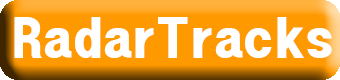
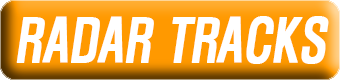
C3 test231110 (#30)
* icons...
* lane_width....

diff --git a/selfdrive/controls/lib/lateral_planner.py b/selfdrive/controls/lib/lateral_planner.py
@@ -5,6 +5,8 @@ import cereal.messaging as messaging
 from cereal import log
 
 from openpilot.common.params import Params
+from openpilot.selfdrive.controls.lib.lane_planner import LanePlanner
+
 
 TRAJECTORY_SIZE = 33
 CAMERA_OFFSET = 0.04
@@ -12,6 +14,7 @@ CAMERA_OFFSET = 0.04
 class LateralPlanner:
   def __init__(self, CP, debug=False):
     self.DH = DesireHelper()
+    self.LP = LanePlanner()
     self.readParams = 0
     self.lanelines_active = False
     self.lanelines_active_tmp = False
@@ -24,13 +27,10 @@ class LateralPlanner:
 
     self.path_xyz = np.zeros((TRAJECTORY_SIZE, 3))
     self.velocity_xyz = np.zeros((TRAJECTORY_SIZE, 3))
+    self.t_idxs = np.arange(TRAJECTORY_SIZE)
     self.v_plan = np.zeros((TRAJECTORY_SIZE,))
     self.x_sol = np.zeros((TRAJECTORY_SIZE, 4), dtype=np.float32)
     self.v_ego = MIN_SPEED
-    self.l_lane_change_prob = 0.0
-    self.r_lane_change_prob = 0.0
-    self.l_turn_prob = 0.0
-    self.r_turn_prob = 0.0
 
     self.debug_mode = debug
     self.steeringRateCost = 700.
@@ -48,24 +48,21 @@ class LateralPlanner:
     md = sm['modelV2']
     if len(md.position.x) == TRAJECTORY_SIZE and len(md.velocity.x) == TRAJECTORY_SIZE and len(md.lateralPlannerSolution.x) == TRAJECTORY_SIZE:
       self.path_xyz = np.column_stack([md.position.x, md.position.y, md.position.z])
+      self.t_idxs = np.array(md.position.t)
       self.velocity_xyz = np.column_stack([md.velocity.x, md.velocity.y, md.velocity.z])
       car_speed = np.linalg.norm(self.velocity_xyz, axis=1) - get_speed_error(md, v_ego_car)
       self.v_plan = np.clip(car_speed, MIN_SPEED, np.inf)
       self.v_ego = self.v_plan[0]
       self.x_sol = np.column_stack([md.lateralPlannerSolution.x, md.lateralPlannerSolution.y, md.lateralPlannerSolution.yaw, md.lateralPlannerSolution.yawRate])
 
+    # Parse model predictions
+    self.LP.parse_model(md)
+    lane_change_prob = self.LP.l_lane_change_prob + self.LP.r_lane_change_prob
+    turn_prob = self.LP.l_turn_prob + self.LP.r_turn_prob
     # Lane change logic
-    desire_state = md.meta.desireState
-    if len(desire_state):
-      self.l_lane_change_prob = desire_state[log.LateralPlan.Desire.laneChangeLeft]
-      self.r_lane_change_prob = desire_state[log.LateralPlan.Desire.laneChangeRight]
-      self.l_turn_prob = desire_state[log.LateralPlan.Desire.turnLeft]
-      self.r_turn_prob = desire_state[log.LateralPlan.Desire.turnRight]
-    lane_change_prob = self.l_lane_change_prob + self.r_lane_change_prob
-    turn_prob = self.l_turn_prob + self.r_turn_prob
-    #self.DH.update(sm['carState'], sm['carControl'].latActive, lane_change_prob)
-    self.DH.update(sm['carState'], sm['carControl'].latActive, lane_change_prob, md, turn_prob, sm['navInstruction'], sm['roadLimitSpeed'], 3.5)
+    self.DH.update(sm['carState'], sm['carControl'].latActive, lane_change_prob, md, turn_prob, sm['navInstruction'], sm['roadLimitSpeed'], self.LP.lane_width)
 
+    path_xyz_tmp = self.LP.get_d_path(self.v_ego, self.t_idxs, self.path_xyz, self.lanelines_active)
 
   def publish(self, sm, pm):
     plan_send = messaging.new_message('lateralPlan')
@@ -90,7 +87,7 @@ class LateralPlanner:
     lateralPlan.laneChangeState = self.DH.lane_change_state
     lateralPlan.laneChangeDirection = self.DH.lane_change_direction
     lateralPlan.desireEvent = self.DH.desireEvent
-    lateralPlan.laneWidth = 3.5 #float(self.LP.lane_width)
+    lateralPlan.laneWidth = float(self.LP.lane_width)
     lateralPlan.desireReady = self.DH.desireReady
     lateralPlan.apNaviDistance = int(self.DH.apNaviDistance)
     lateralPlan.apNaviSpeed = int(self.DH.apNaviSpeed)

diff --git a/selfdrive/ui/paint.cc b/selfdrive/ui/paint.cc
@@ -759,15 +759,14 @@ float filter_y = 0.0;
 
 void DrawApilot::drawLeadApilot(const UIState* s) {
     SubMaster& sm = *(s->sm);
-    const cereal::ModelDataV2::Reader& model = sm["modelV2"].getModelV2();
+    //const cereal::ModelDataV2::Reader& model = sm["modelV2"].getModelV2();
     const UIScene& scene = s->scene;
-    auto leads = model.getLeadsV3();
+    //auto leads = model.getLeadsV3();
 #ifndef __TEST
     //const cereal::ModelDataV2::LeadDataV3::Reader& lead_data = leads[0];
 #endif
     //const QPointF& vd = s->scene.lead_vertices[0];
     //bool is_radar = s->scene.lead_radar[0];
-    bool no_radar = leads[0].getProb() < .5;
     bool    uiDrawSteeringRotate = s->show_steer_rotate;
 
 #ifndef __TEST
@@ -775,6 +774,7 @@ void DrawApilot::drawLeadApilot(const UIState* s) {
     auto lead_radar = sm["radarState"].getRadarState().getLeadOne();
     auto lead_one = sm["modelV2"].getModelV2().getLeadsV3()[0];
 #endif
+    bool no_radar = lead_radar.getStatus() == 0;
 #ifdef __TEST
     float radar_dist = 0;
     bool radar_detected = false;
@@ -1148,22 +1148,20 @@ void DrawApilot::drawLeadApilot(const UIState* s) {
         int dist_y = y + 195;// 175;
         disp_size = 60;
         stopping |= (brake_hold || soft_hold);
-        if (no_radar) {
-            if (stop_dist > 0.5 && stopping) {
-                if (stop_dist < 10.0) sprintf(str, "%.1f", stop_dist);
-                else sprintf(str, "%.0f", stop_dist);
+        if (stop_dist > 0.5 && stopping) {
+            if (stop_dist < 10.0) sprintf(str, "%.1f", stop_dist);
+            else sprintf(str, "%.0f", stop_dist);
+            ui_draw_text(s, x, dist_y, str, disp_size, COLOR_WHITE, BOLD);
+        }
+        else if (longActiveUser > 0 && v_ego < 1.0 && (stopping || lp.getTrafficState() >= 1000)) {
+            if (brake_hold || soft_hold) {
+                //drawTextWithColor(painter, x, dist_y, (brake_hold) ? "AUTOHOLD" : "SOFTHOLD", textColor);
+                sprintf(str, "%s", (brake_hold) ? "AUTOHOLD" : "SOFTHOLD");
                 ui_draw_text(s, x, dist_y, str, disp_size, COLOR_WHITE, BOLD);
             }
-            else if (longActiveUser > 0 && (stopping || lp.getTrafficState() >= 1000)) {
-                if (brake_hold || soft_hold) {
-                    //drawTextWithColor(painter, x, dist_y, (brake_hold) ? "AUTOHOLD" : "SOFTHOLD", textColor);
-                    sprintf(str, "%s", (brake_hold) ? "AUTOHOLD" : "SOFTHOLD");
-                    ui_draw_text(s, x, dist_y, str, disp_size, COLOR_WHITE, BOLD);
-                }
-                else {
-                    sprintf(str, "%s", (lp.getTrafficState() >= 1000) ? "신호오류" : "신호대기");
-                    ui_draw_text(s, x, dist_y, str, disp_size, COLOR_WHITE, BOLD);
-                }
+            else {
+                sprintf(str, "%s", (lp.getTrafficState() >= 1000) ? "신호오류" : "신호대기");
+                ui_draw_text(s, x, dist_y, str, disp_size, COLOR_WHITE, BOLD);
             }
         }
         else if (disp_dist > 0.0) {

diff --git a/selfdrive/controls/radard.py b/selfdrive/controls/radard.py
@@ -233,8 +233,9 @@ def get_path_adjacent_leads(v_ego, md, lane_width, clusters, mixRadarInfo):
     ld = c.get_RadarState2(lead_msg.prob, lead_msg, mixRadarInfo)
     ld["dPath"] = dPath
     ld["vLat"] = math.sqrt((10*dPath)**2 + c.dRel**2)
-    if abs(dPath) < half_lane_width and ld["vLeadK"] > -1.: # want to still get stopped leads, so put in wiggle-room for radar noise
-      leads_center[abs(dPath)] = ld
+    if abs(dPath) < half_lane_width:
+      if True: #ld["vLeadK"] > -1.:
+        leads_center[abs(dPath)] = ld
     elif dPath < 0.:
       leads_left[abs(dPath)] = ld
     else:
@@ -357,7 +358,7 @@ class RadarD:
       model_v_ego = self.v_ego
     leads_v3 = sm['modelV2'].leadsV3
     if len(leads_v3) > 1:
-      self.radar_state.leadOne = get_lead(self.v_ego, self.ready, self.tracks, leads_v3[0], model_v_ego, low_speed_override=True, mixRadarInfo=self.mixRadarInfo)
+      self.radar_state.leadOne = get_lead(self.v_ego, self.ready, self.tracks, leads_v3[0], model_v_ego, low_speed_override=False, mixRadarInfo=self.mixRadarInfo)
       self.radar_state.leadTwo = get_lead(self.v_ego, self.ready, self.tracks, leads_v3[1], model_v_ego, low_speed_override=False, mixRadarInfo=self.mixRadarInfo)
 
       if self.ready and self.showRadarInfo: #self.extended_radar_enabled and self.ready:

diff --git a/selfdrive/controls/lib/cruise_helper.py b/selfdrive/controls/lib/cruise_helper.py
@@ -875,7 +875,8 @@ class CruiseHelper:
         elif self.v_ego_kph > 20.0 and self.xState == XState.e2eStop: # and abs(self.position_y) < 3.0:
           #v_cruise_kph = self.v_ego_kph_set
           longActiveUser = 3
-        pass
+        elif self.v_ego_kph > v_cruise_kph:
+          longActiveUser = 3
 
       if longActiveUser <= 0 and not brakePressed and not CS.gasPressed:
         cruiseOnDist = abs(self.cruiseOnDist)
